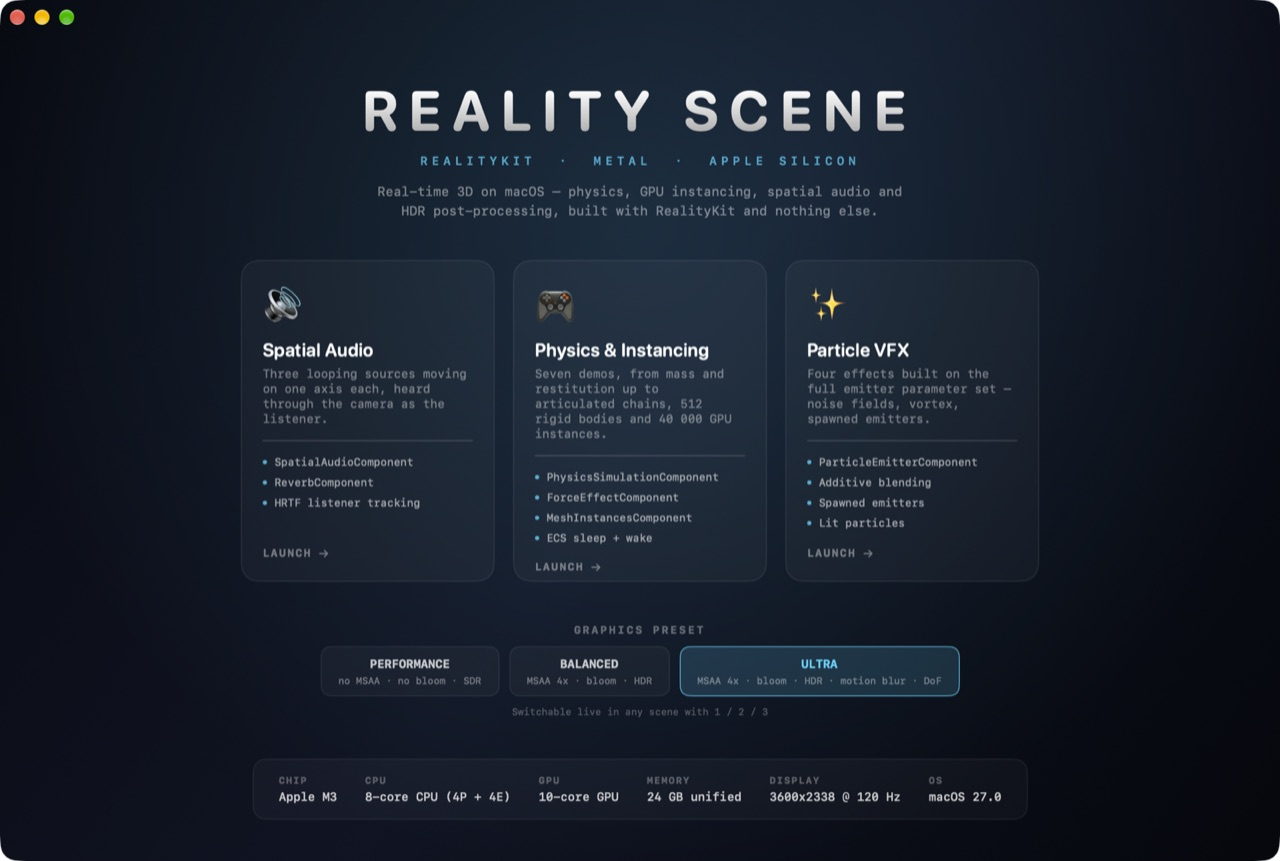
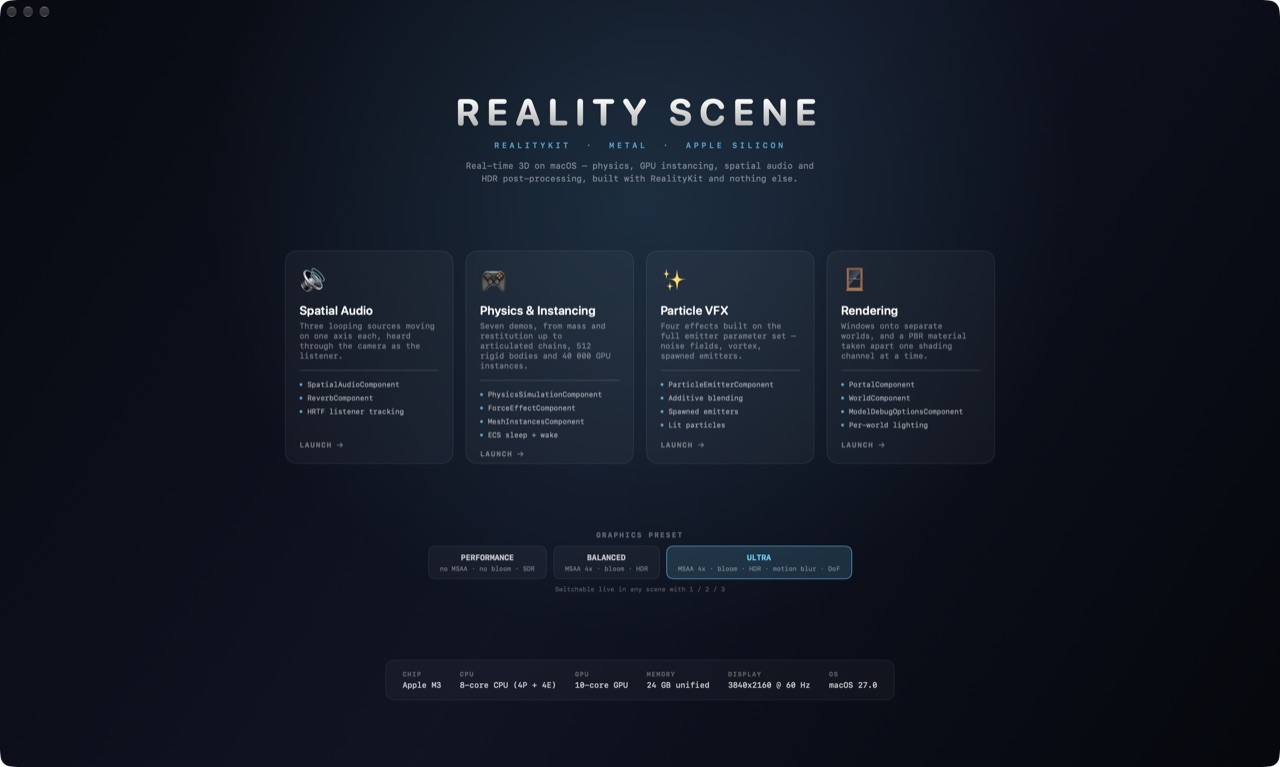
Refresh every screenshot and illustrate the three new demos
The launcher shot showed three cards when there are four, and the rendering
scene's demos were described in the README with no picture at all. The older
shots also predate two HUD changes — the CPU row that used to read 50% for
half a core, and the smoothed headline frame rate — so mixing them would have
shown two different HUDs in one README.

All eight are recaptured from the current Release build: launcher, portals,
material lab on the roughness channel, procedural mesh, physics stress, GPU
instancing, chains and spatial audio.

diff --git a/README.md b/README.md
@@ -61,19 +61,27 @@ otherwise shows three spheres sliding around in silence.
 
 ### Windows onto other worlds
 
+![Portals](docs/portals.jpg)
+
 `WorldComponent` takes an entity and its descendants out of the default world:
 they render nowhere except through a `PortalComponent` that targets them. Each
 of the three worlds here has its own floor, its own lights and its own palette.
 
 ### A PBR material, one channel at a time
 
-`ModelDebugOptionsComponent` replaces an entity's shading with a single channel
+![Material lab](docs/materials.jpg)
+
+The roughness channel, above: the polished sphere and the glass read almost
+black because they are mirrors, the rough one almost white because it scatters
+light wide. `ModelDebugOptionsComponent` replaces an entity's shading with a single channel
 of it. Stepping through base colour, normals, roughness, metallic, clearcoat
 and the diffuse and specular lighting terms on a row of deliberately different
 materials shows *why* car paint and brushed metal catch light the way they do.
 Press **E** to advance a channel.
 
 ### A mesh with no vertices on the CPU
+
+![Procedural mesh](docs/surface.jpg)
 
 `LowLevelMesh` lets you declare a vertex layout and own the memory.
 `replace(bufferIndex:using:)` hands that memory back as an `MTLBuffer`, so the
